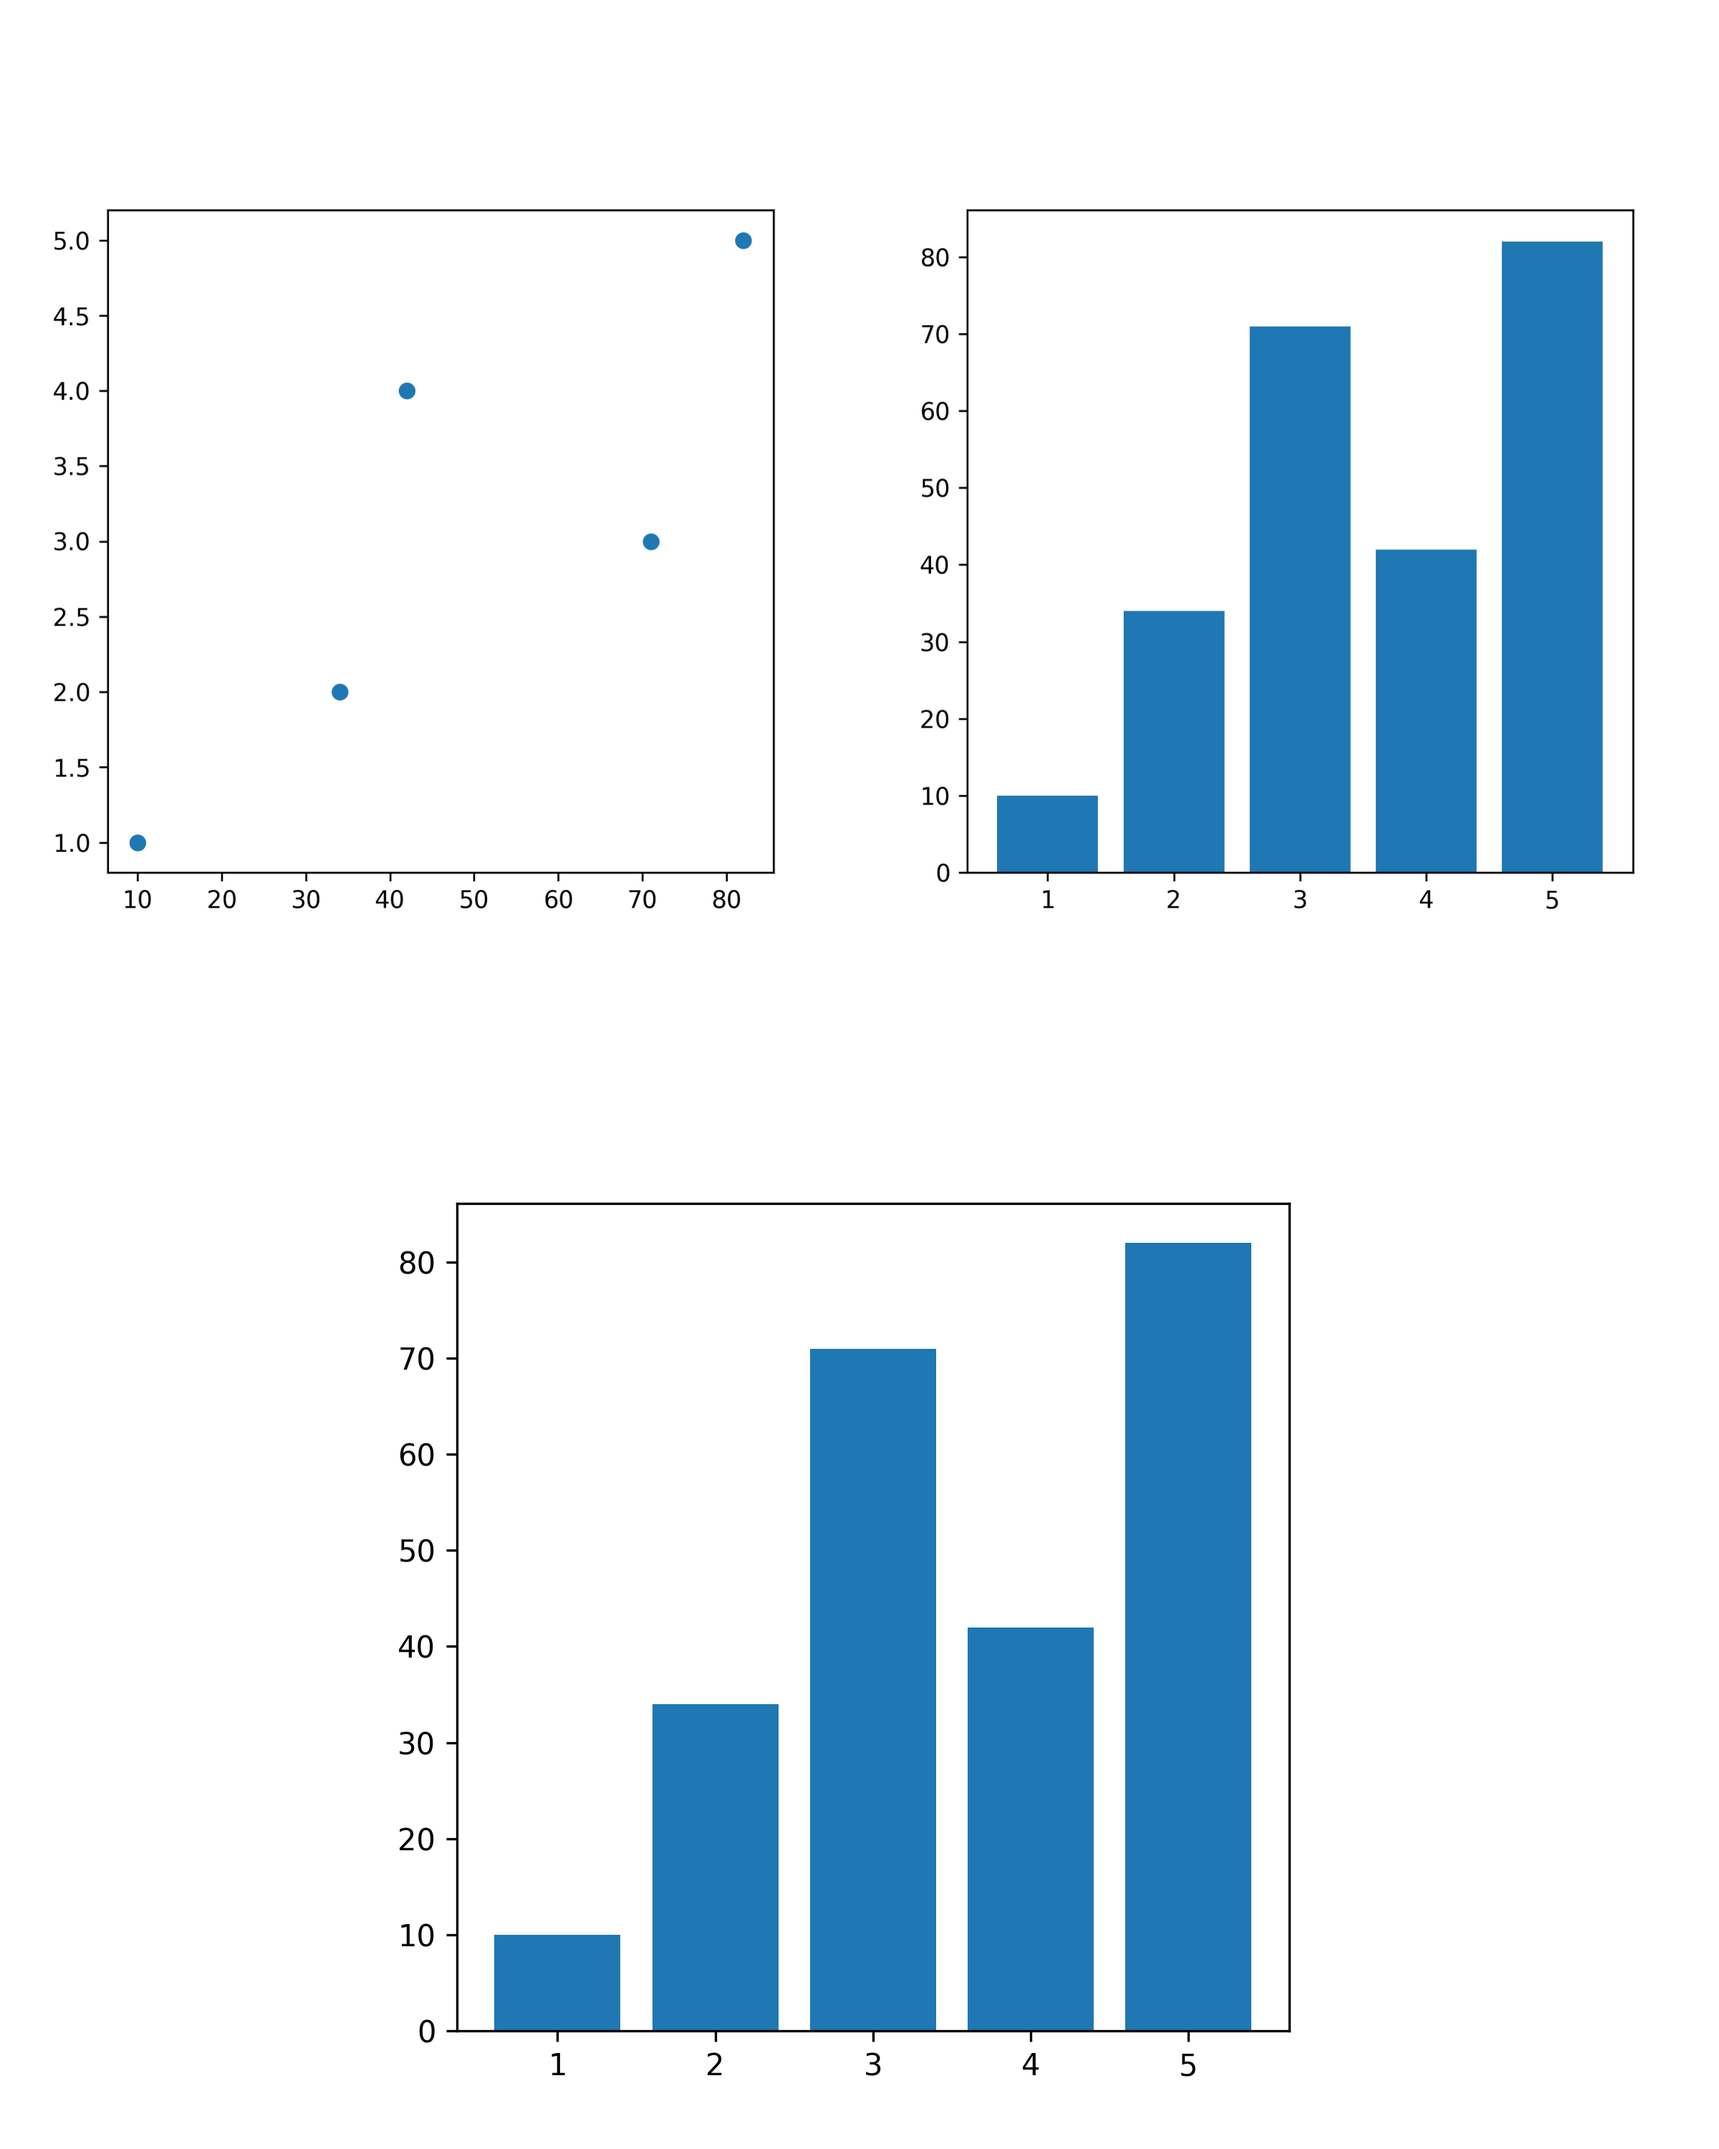
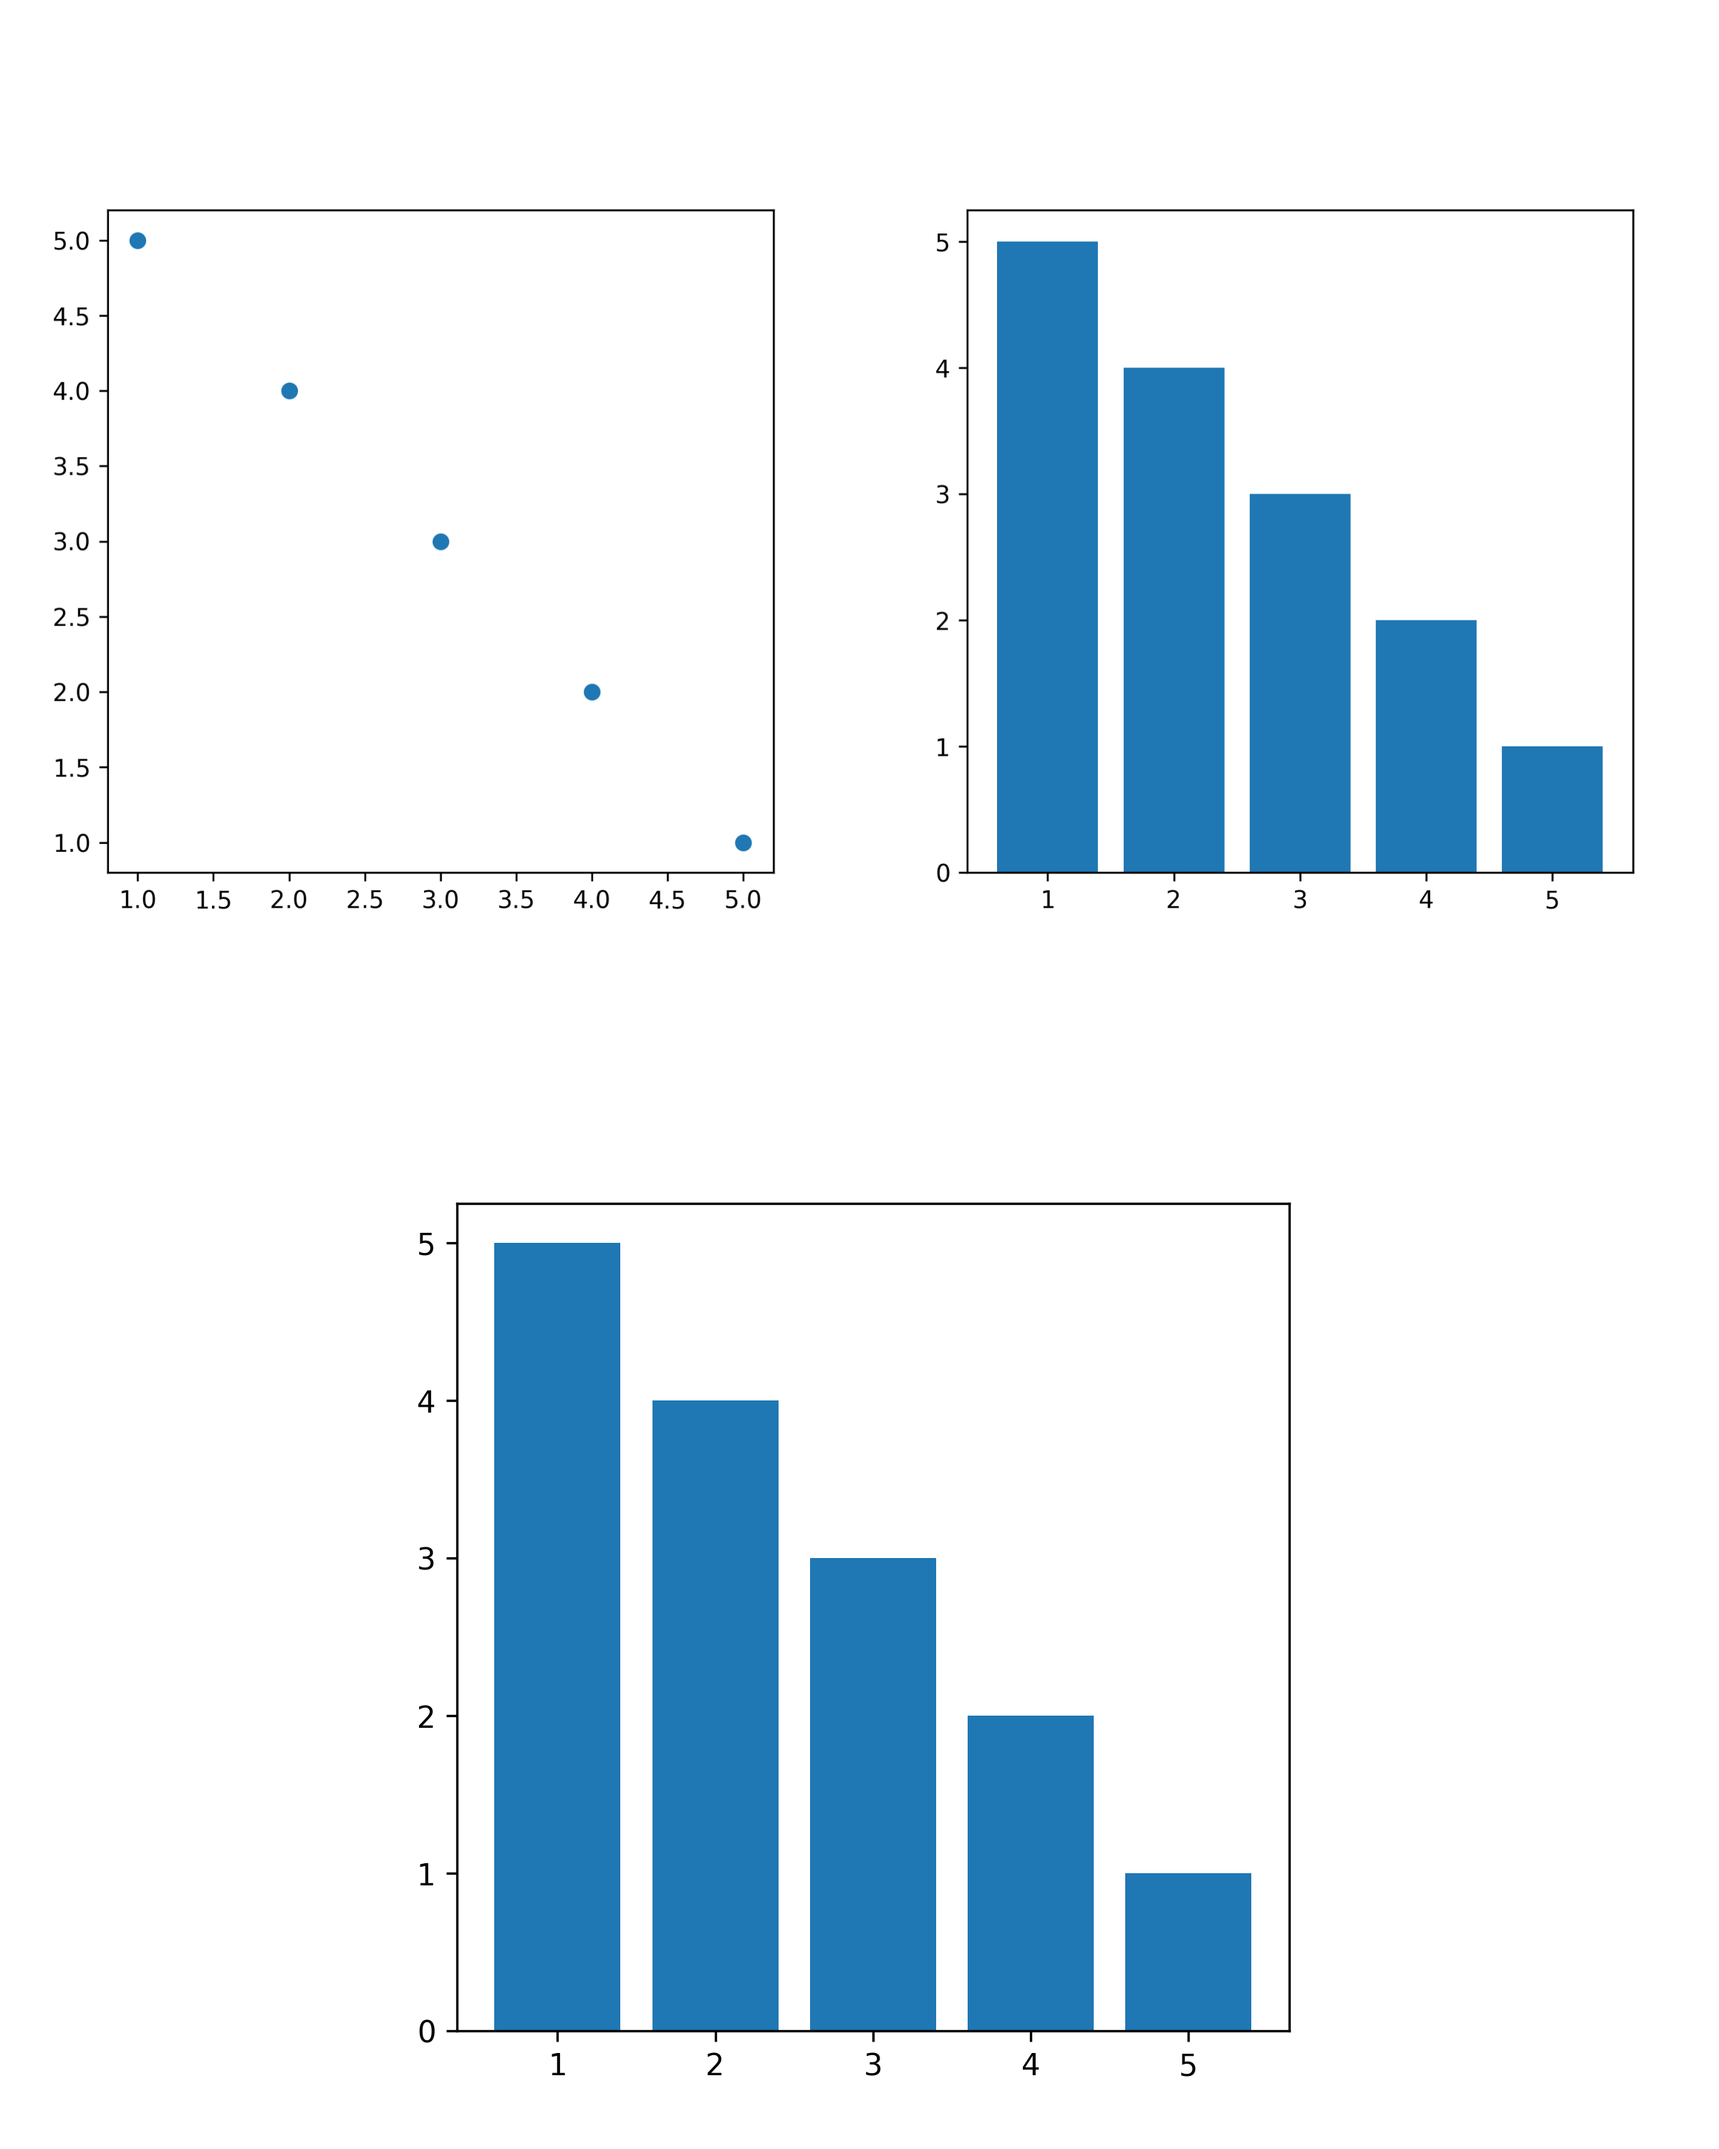
trying some things

diff --git a/plotch/config.py b/plotch/config.py
@@ -1,0 +1,39 @@
+import copy
+from .config_default import DEFAULT
+
+
+class Config:
+    def __init__(self):
+        self._defaults = copy.deepcopy(DEFAULT)
+        self.reset()
+
+    def reset(self):
+        """Reset all settings to their default values."""
+        self._current = copy.deepcopy(self._defaults)
+
+    def update(self, **kwargs):
+        """Update settings with provided keyword arguments."""
+        for key, value in kwargs.items():
+            if key in self._defaults:
+                self._current[key] = value
+            else:
+                raise KeyError(f"Invalid configuration key: {key}")
+
+    def __getitem__(self, key):
+        return self._current.get(key, None)
+
+    def __setitem__(self, key, value):
+        if key in self._defaults:
+            self._current[key] = value
+        else:
+            raise KeyError(f"Invalid configuration key: {key}")
+
+    def get(self, key, default=None):
+        return self._current.get(key, default)
+
+    def as_dict(self):
+        """Return a copy of the current configuration as a dictionary."""
+        return copy.deepcopy(self._current)
+
+
+Params = Config()

diff --git a/plotch/main.py b/plotch/main.py
@@ -1,6 +1,8 @@
 import matplotlib.pyplot as plt
 from matplotlib.axes import Axes
 
+from .config import Params
+
 
 def _fig2rgb_array(fig):
     fig.canvas.draw()
@@ -15,7 +17,8 @@ def _add_axes(self, other):
     self.figure.set_facecolor(plt.gcf().get_facecolor())
     other.figure.set_facecolor(plt.gcf().get_facecolor())
 
-    fig = plt.figure(figsize=(10, 6))
+    figsize = Params["plus_figsize"]
+    fig = plt.figure(figsize=figsize)
 
     ax_left = fig.add_axes([0.0, 0.0, 0.5, 1.0])
     ax_right = fig.add_axes([0.5, 0.0, 0.5, 1.0])
@@ -42,7 +45,8 @@ def _truediv_axes(self, other):
     self.figure.set_facecolor(plt.gcf().get_facecolor())
     other.figure.set_facecolor(plt.gcf().get_facecolor())
 
-    fig = plt.figure(figsize=(8, 10))
+    figsize = Params["div_figsize"]
+    fig = plt.figure(figsize=figsize)
 
     ax_top = fig.add_axes([0.0, 0.5, 1.0, 0.5])
     ax_bottom = fig.add_axes([0.0, 0.0, 1.0, 0.5])

diff --git a/plotch/__init__.py b/plotch/__init__.py
@@ -1,5 +1,9 @@
 from matplotlib.axes import Axes
 from .main import _add_axes, _truediv_axes
+from .config import Params
 
+# Monkey-patch our Axes class so + and / do special things
 Axes.__add__ = _add_axes
 Axes.__truediv__ = _truediv_axes
+
+__all__ = ["Params"]

diff --git a/plotch/config_default.py b/plotch/config_default.py
@@ -1,0 +1,4 @@
+DEFAULT = {
+    "plus_figsize": (10, 6),
+    "div_figsize": (8, 10),
+}

diff --git a/README.md b/README.md
@@ -6,13 +6,12 @@ This project is a work in progress.
 
 ```python
 import matplotlib.pyplot as plt
-import numpy as np
 import pandas as pd
 import plotch
 
 df = pd.DataFrame({
-   "x": [10, 34, 71, 42, 82],
-   "y": [1, 2, 3, 4, 5],
+   "x": [1, 2, 3, 4, 5],
+   "y": [5, 4, 3, 2, 1],
 })
 
 _, ax1 = plt.subplots(figsize=(5, 5))
@@ -25,13 +24,13 @@ ax2.bar(df["y"], df["x"])
 And then we glue Axes together:
 
 ```python
-ax1 / ax2
+ax1 + ax2
 ```
 
 ![](img/example-1.png)
 
 ```python
-ax1 + ax2
+ax1 / ax2
 ```
 
 ![](img/example-2.png)
@@ -61,3 +60,4 @@ ax2 / (ax1 + ax2)
 
 - Scales very badly with 3 or more Axes
 - Having to call `plt.subplots()` many times is not the best
+- When initial figures are not squared, looks weird
